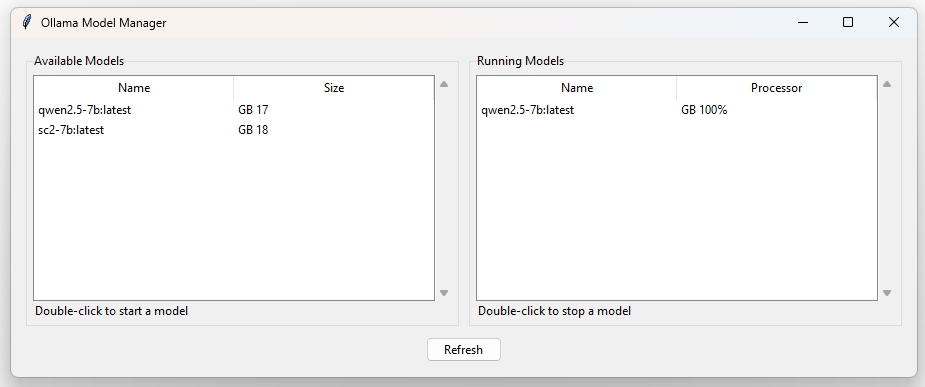
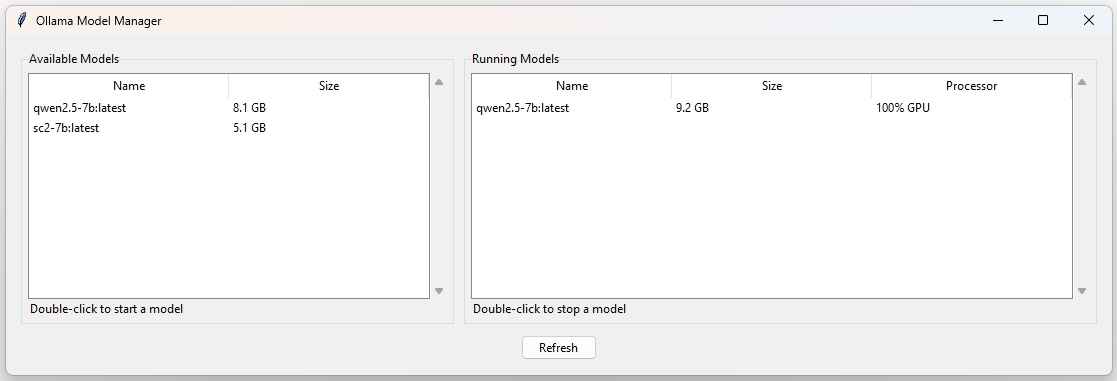
fix a bug

Changed region(s): [[0.0, 0.1444, 0.9989, 1.0], [0.0, 0.0, 0.9989, 0.0866], [0.2119, 0.2598, 0.3027, 0.3465]]

diff --git a/main.py b/main.py
@@ -25,8 +25,9 @@ class OllamaGUI:
         self.available_tree.heading('Size', text='Size')
         self.available_tree.grid(row=0, column=0, sticky=(tk.W, tk.E, tk.N, tk.S))
         
-        self.running_tree = ttk.Treeview(running_frame, columns=('Name', 'Processor'), show='headings')
+        self.running_tree = ttk.Treeview(running_frame, columns=('Name', 'Size', 'Processor'), show='headings')
         self.running_tree.heading('Name', text='Name')
+        self.running_tree.heading('Size', text='Size')
         self.running_tree.heading('Processor', text='Processor')
         self.running_tree.grid(row=0, column=0, sticky=(tk.W, tk.E, tk.N, tk.S))
         
@@ -68,7 +69,9 @@ class OllamaGUI:
             for line in lines:
                 if line.strip():
                     parts = line.split()
-                    models.append((parts[0], parts[3] + ' ' + parts[4]))
+                    name = parts[0]
+                    size = parts[2] + ' ' + parts[3]
+                    models.append((name, size))
             return models
         except Exception as e:
             messagebox.showerror("Error", f"Failed to get available models: {str(e)}")
@@ -82,7 +85,10 @@ class OllamaGUI:
             for line in lines:
                 if line.strip():
                     parts = line.split()
-                    models.append((parts[0], parts[3] + ' ' + parts[4]))
+                    name = parts[0]
+                    size = parts[2] + ' ' + parts[3]
+                    processor = parts[4] + ' ' + parts[5]
+                    models.append((name, size, processor))
             return models
         except Exception as e:
             messagebox.showerror("Error", f"Failed to get running models: {str(e)}")
